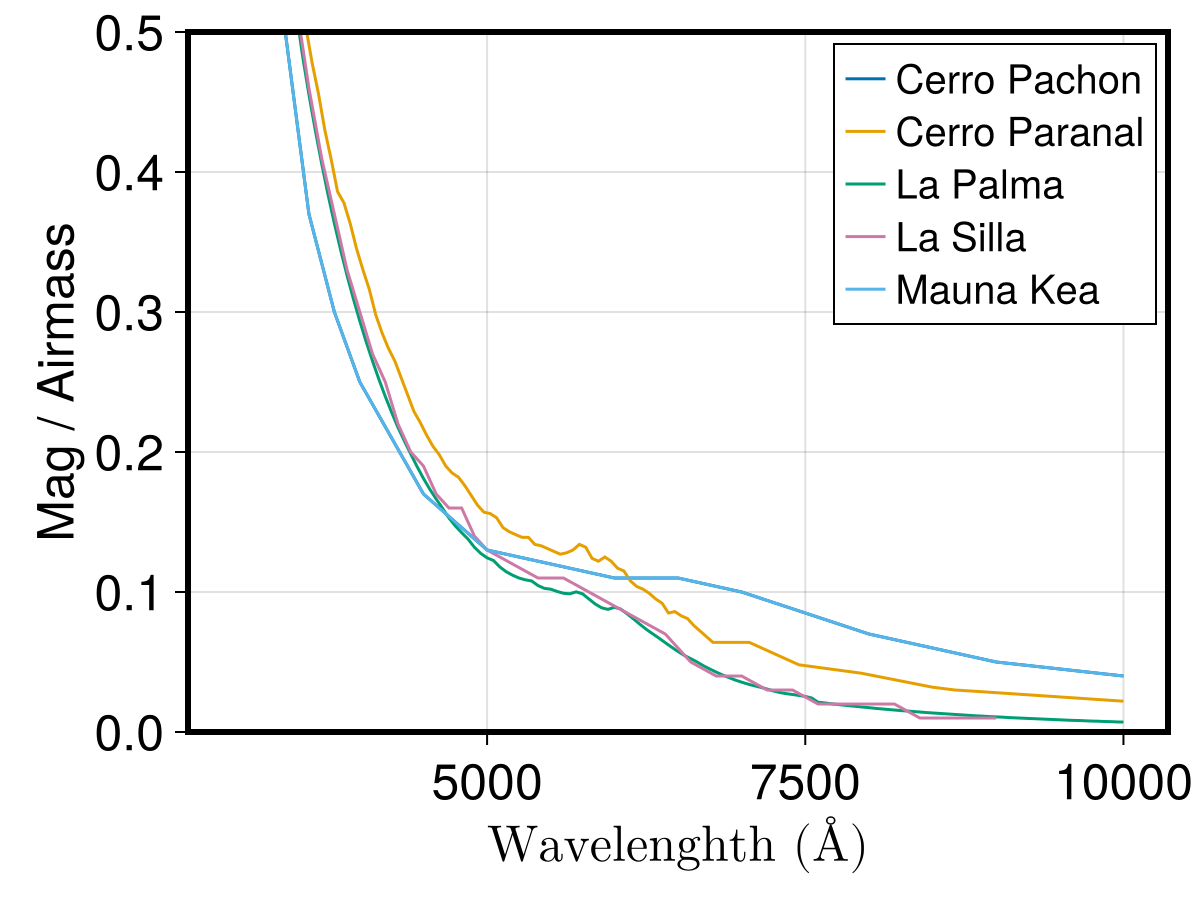
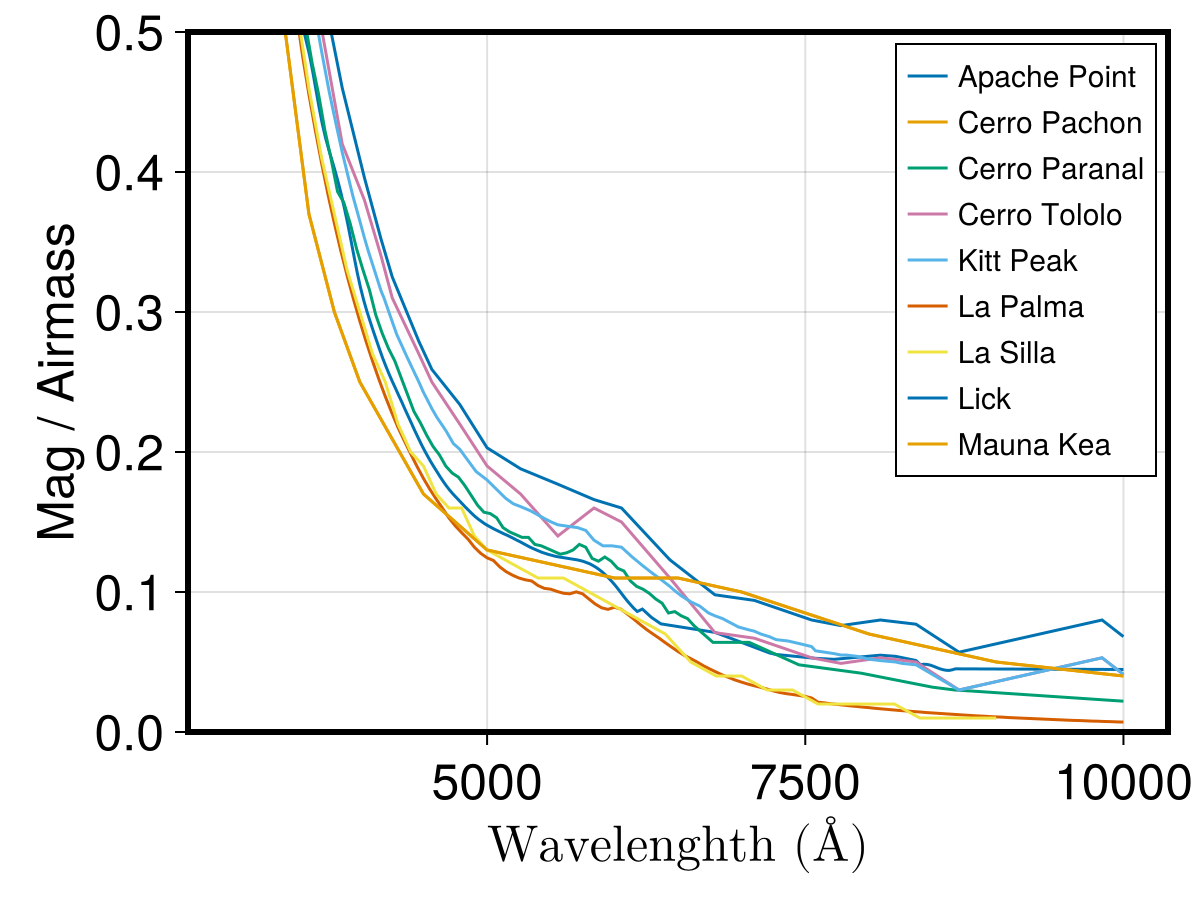
20012026 commit

Changed region(s): [[0.2158, 0.0311, 0.925, 0.8089], [0.6783, 0.0622, 0.9558, 0.4044], [0.74, 0.4356, 0.9558, 0.5289]]

diff --git a/README.md b/README.md
@@ -35,10 +35,13 @@ A list of the known site can be obtained by:
 GetKnownRecipes()
 ```
 ```
-Cerro Pachon
+Apache Point
 Cerro Paranal
+Cerro Tololo
+Kitt Peak
 La Palma
 La Silla
+Lick
 Mauna Kea
 ```
 
@@ -53,10 +56,24 @@ Recipes["La Silla"](3500:4000)
 Wavelength should be expressed in Angstrom.
 
 
-### Available recipes
-
 This is a plot showing the recipes at present available:
 
 ![Histogram](docs/src/recipes.png)
 
+
+### References
+
+These are the references for the availbale atmoshperic extinction tables, partly derived from data included in the [specreduce](https://specreduce.readthedocs.io/en/latest/index.html) `python` packge.
+
+- The extinction table for the *Apache Point Observatory* is based on the extinction table used for the [SDSS](https://www.apo.nmsu.edu/arc35m/Instruments/DIS/).
+- The extinction table for the Cerro Paranal is taken from [Patat et al. (2011)](https://ui.adsabs.harvard.edu/abs/2011A%26A...527A..91P/abstract). This is the only case where the uncertainties on the extinction are reported.
+- The extinction table for the Cerro Tololo is taken from the calibration data included in [IRAF](https://en.wikipedia.org/wiki/IRAF).
+- The extinction table for the Kitt Peak is taken from the calibration data included in [IRAF](https://en.wikipedia.org/wiki/IRAF).
+- The extinction table for La Palma is taken from the technical note [King (1985)](https://www.ing.iac.es/Astronomy/observing/manuals/ps/tech_notes/tn031.pdf).
+- The extinction table for La Silla is taken from the [ESO website](https://www.eso.org/sci/observing/tools/Extinction.html).
+- The extinction table for the Lick Observatory is taken from [these tables](https://mthamilton.ucolick.org/techdocs/standards/lick_mean_extinct.html).
+- The extinction curve for the Manua Kea is taken from [Buton et al. (2013](https://mthamilton.ucolick.org/techdocs/standards/lick_mean_extinct.html).
+
+
+We are glad to include more extinction tables, if availbale.
 
